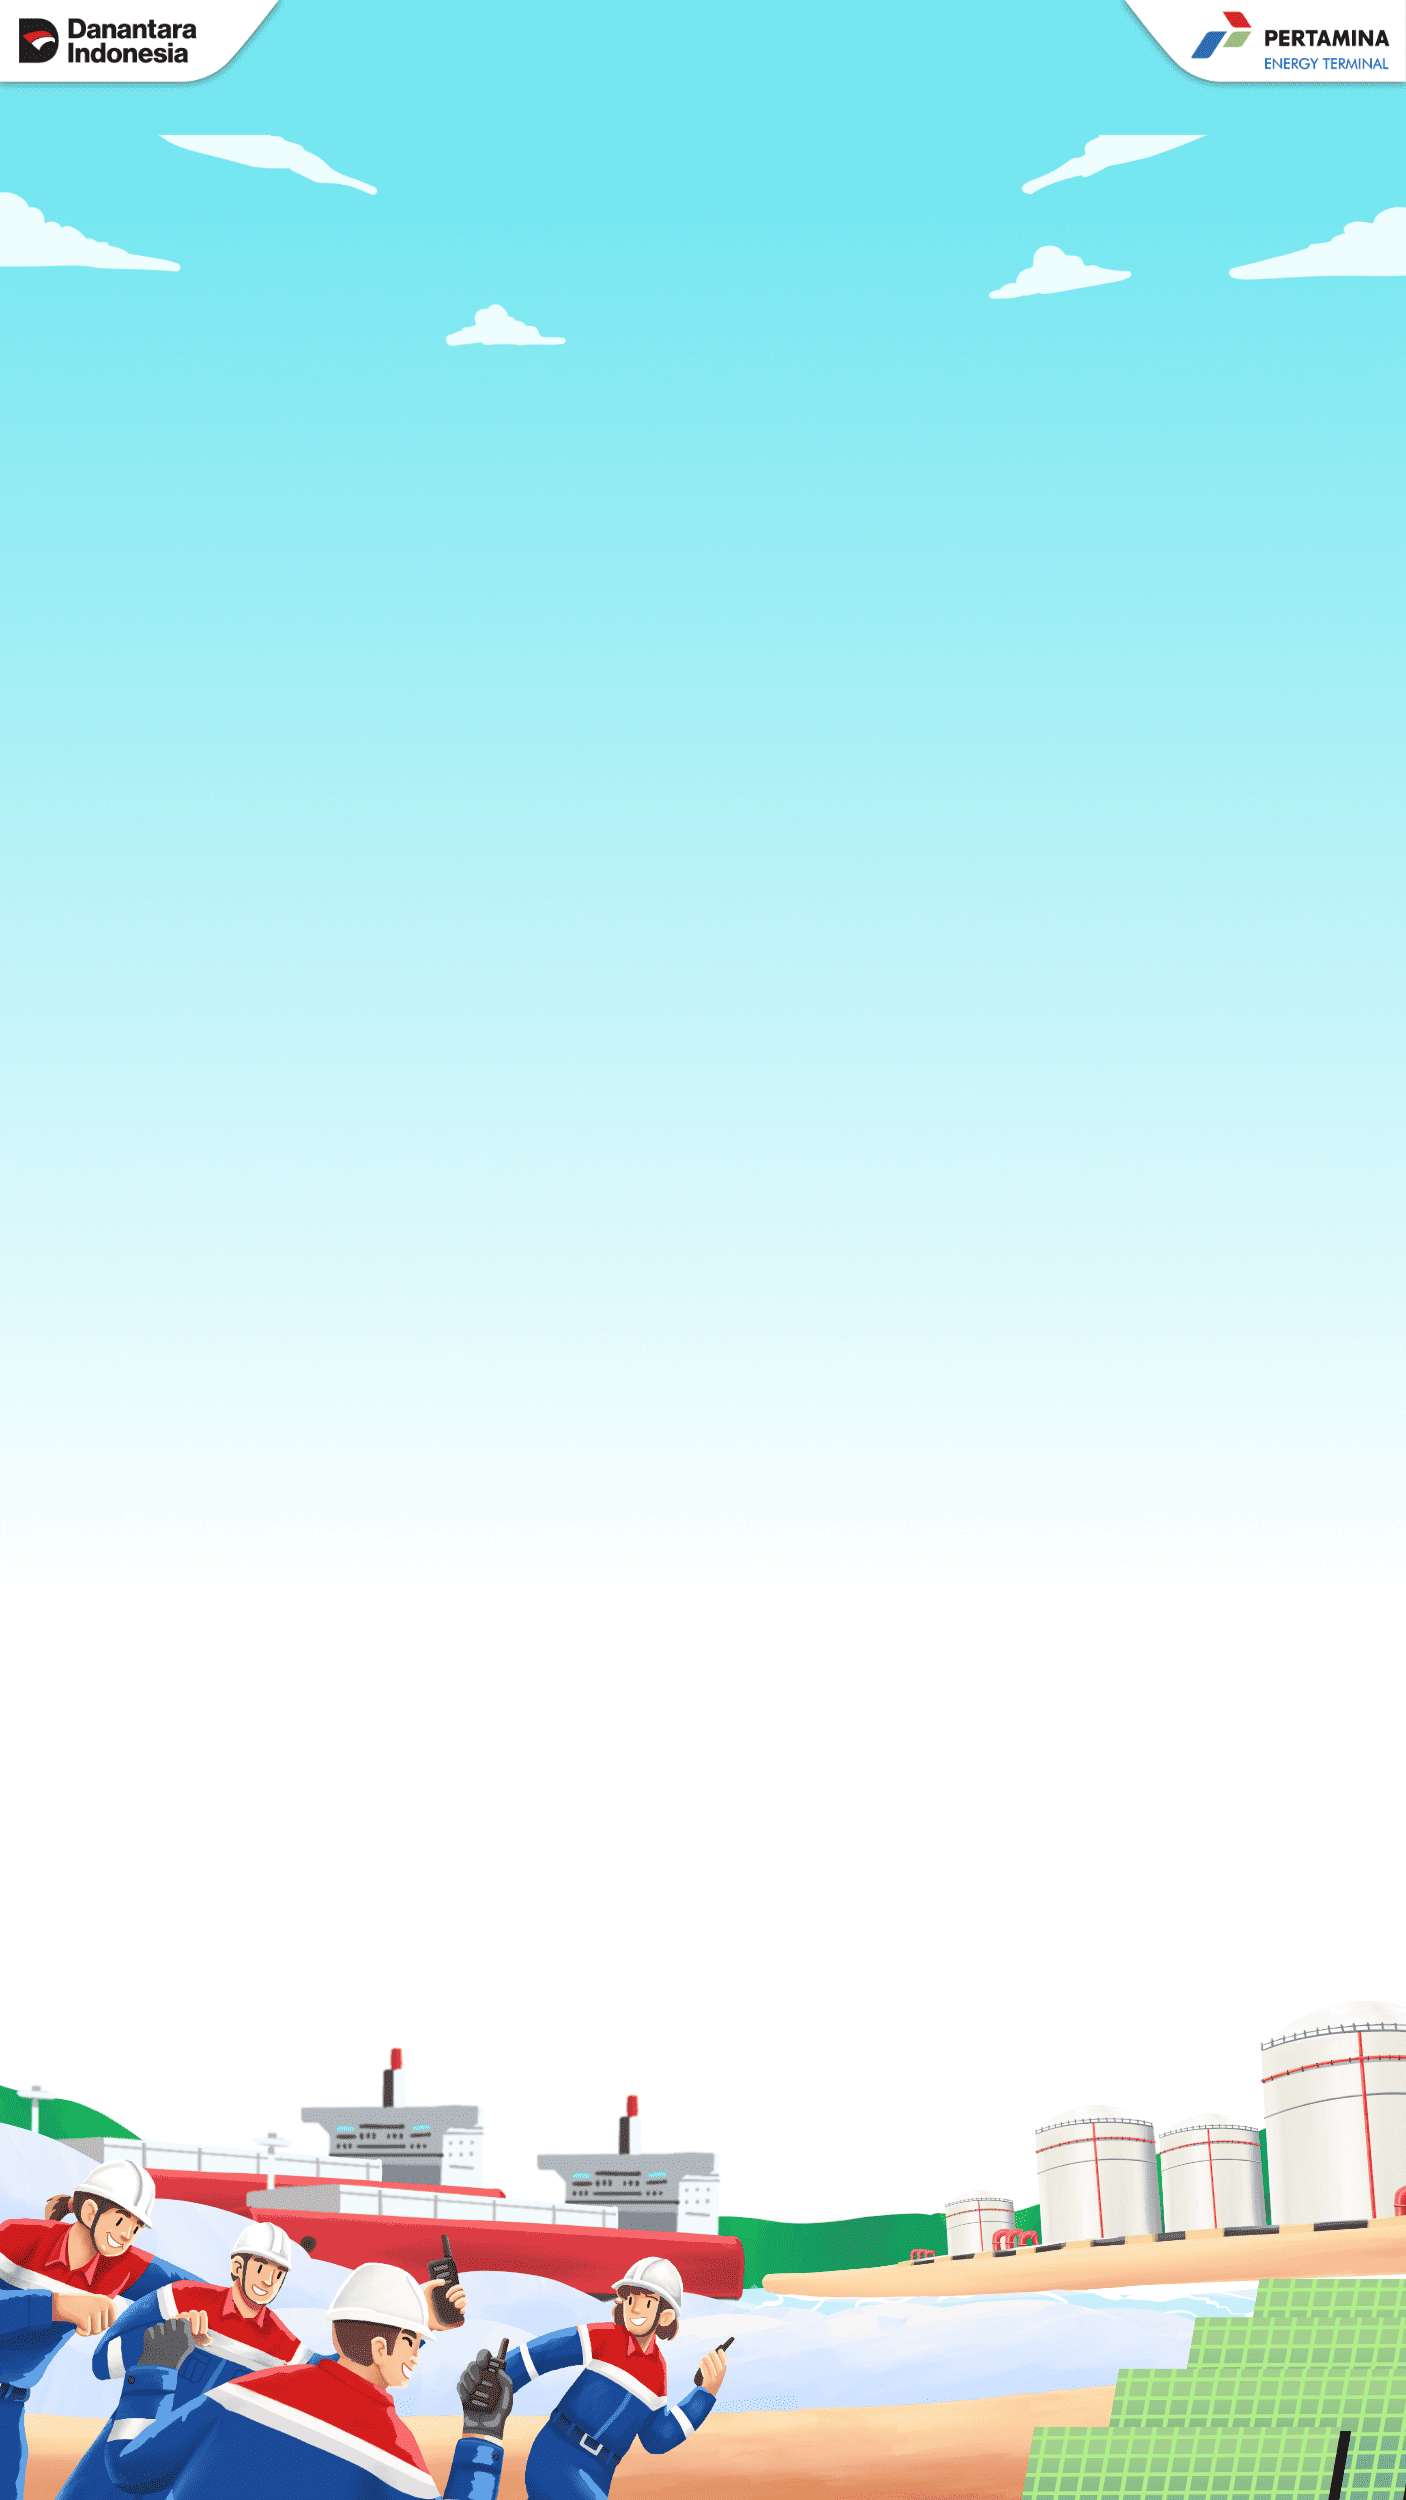
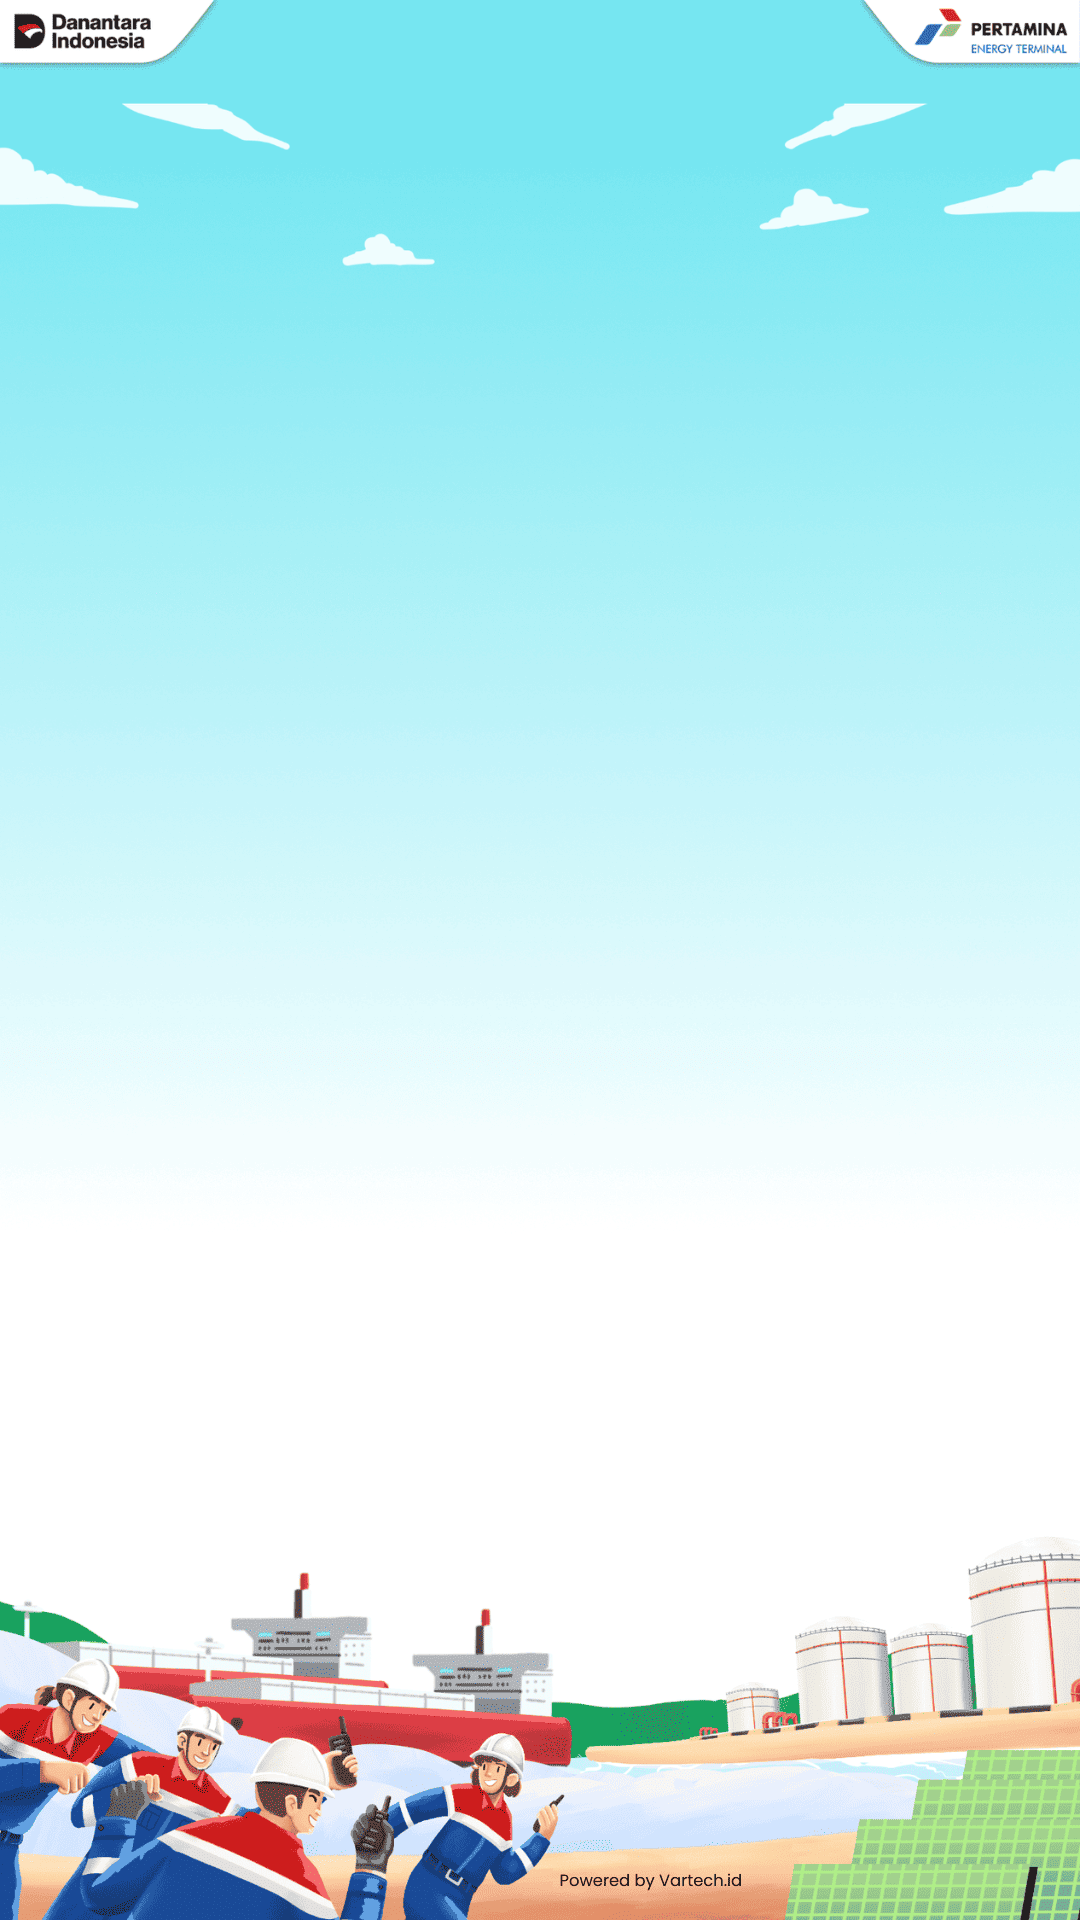
update revisi powered by dari kv

diff --git a/src/views/Home.vue b/src/views/Home.vue
@@ -14,7 +14,7 @@ const goNext = () => router.push({name : 'form'})
                 <img class="mainLogo" src="./assets/pertamina/mainLogo.png" alt="pertaminaLogo"></img>
                 <img class="detail-event" src="./assets/pertamina/detail.png" alt="detail-acara"></img>
                 <button class="buttonRegister" @click="goNext">Click to register</button>
-                <span>Powered By Vartech.id </span>
+                <span></span>
             </div>
         </div>
     </main>
@@ -88,16 +88,12 @@ const goNext = () => router.push({name : 'form'})
 }
 
 span{
-  padding-top: 12em;
+  padding-top: 40em;
   font-family: "Poppins", sans-serif;
   font-weight: 400;
   font-style: normal;
-  color: white;
-  text-shadow: 
-    -2px -2px 0 #00415a,
-     2px -2px 0 #00415a,
-    -2px  2px 0 #00415a,
-     2px  2px 0 #00415a,
-     0px  0px 4px #00415a;
+  color: black;
+  font-size: 6px;
+  padding-left: 11em;
 }
 </style>

diff --git a/src/views/check_in_success.vue b/src/views/check_in_success.vue
@@ -37,7 +37,7 @@ const setMode = (newMode) => {
                     </button>
                 </div>
             </div> -->
-            <span class="powered">Powered By Vartech.id </span>
+            <span class="powered"> </span>
         </div>
     </div>
   </main>
@@ -105,7 +105,7 @@ const setMode = (newMode) => {
   justify-content: center;
   align-items: center;
   gap: 9em;
-  padding-top: 3em;
+  padding-top: 0em;
     }
 
 .mainLogo {

diff --git a/src/views/Last.vue b/src/views/Last.vue
@@ -8,7 +8,7 @@
         <div class="mainContent">
             <img class="mainLogo" src="./assets/pertamina/mainLogo.png" alt="poppylogo"></img>
             <img class="thankYou" src="./assets/pertamina/thankyou.png" alt="thankyou"></img>
-            <span>Powered By Vartech.id </span>
+            <span> </span>
         </div>
     </div>
   </main>

diff --git a/src/views/Form.vue b/src/views/Form.vue
@@ -50,7 +50,7 @@ const submit = () => {
                     </div>
                         <button type="submit" class="buttonForm">Submit</button>
                 </form>
-                <span>Powered By Vartech.id </span>
+                <span></span>
             </div>
         </div>
     </main>

diff --git a/src/views/check_in.vue b/src/views/check_in.vue
@@ -58,7 +58,7 @@ const cancelModeChange = () => {
           </div>
         </div>
 
-        <span class="powered">Powered By Vartech.id </span>
+        <span class="powered"> </span>
       </div>
     </div>
 
